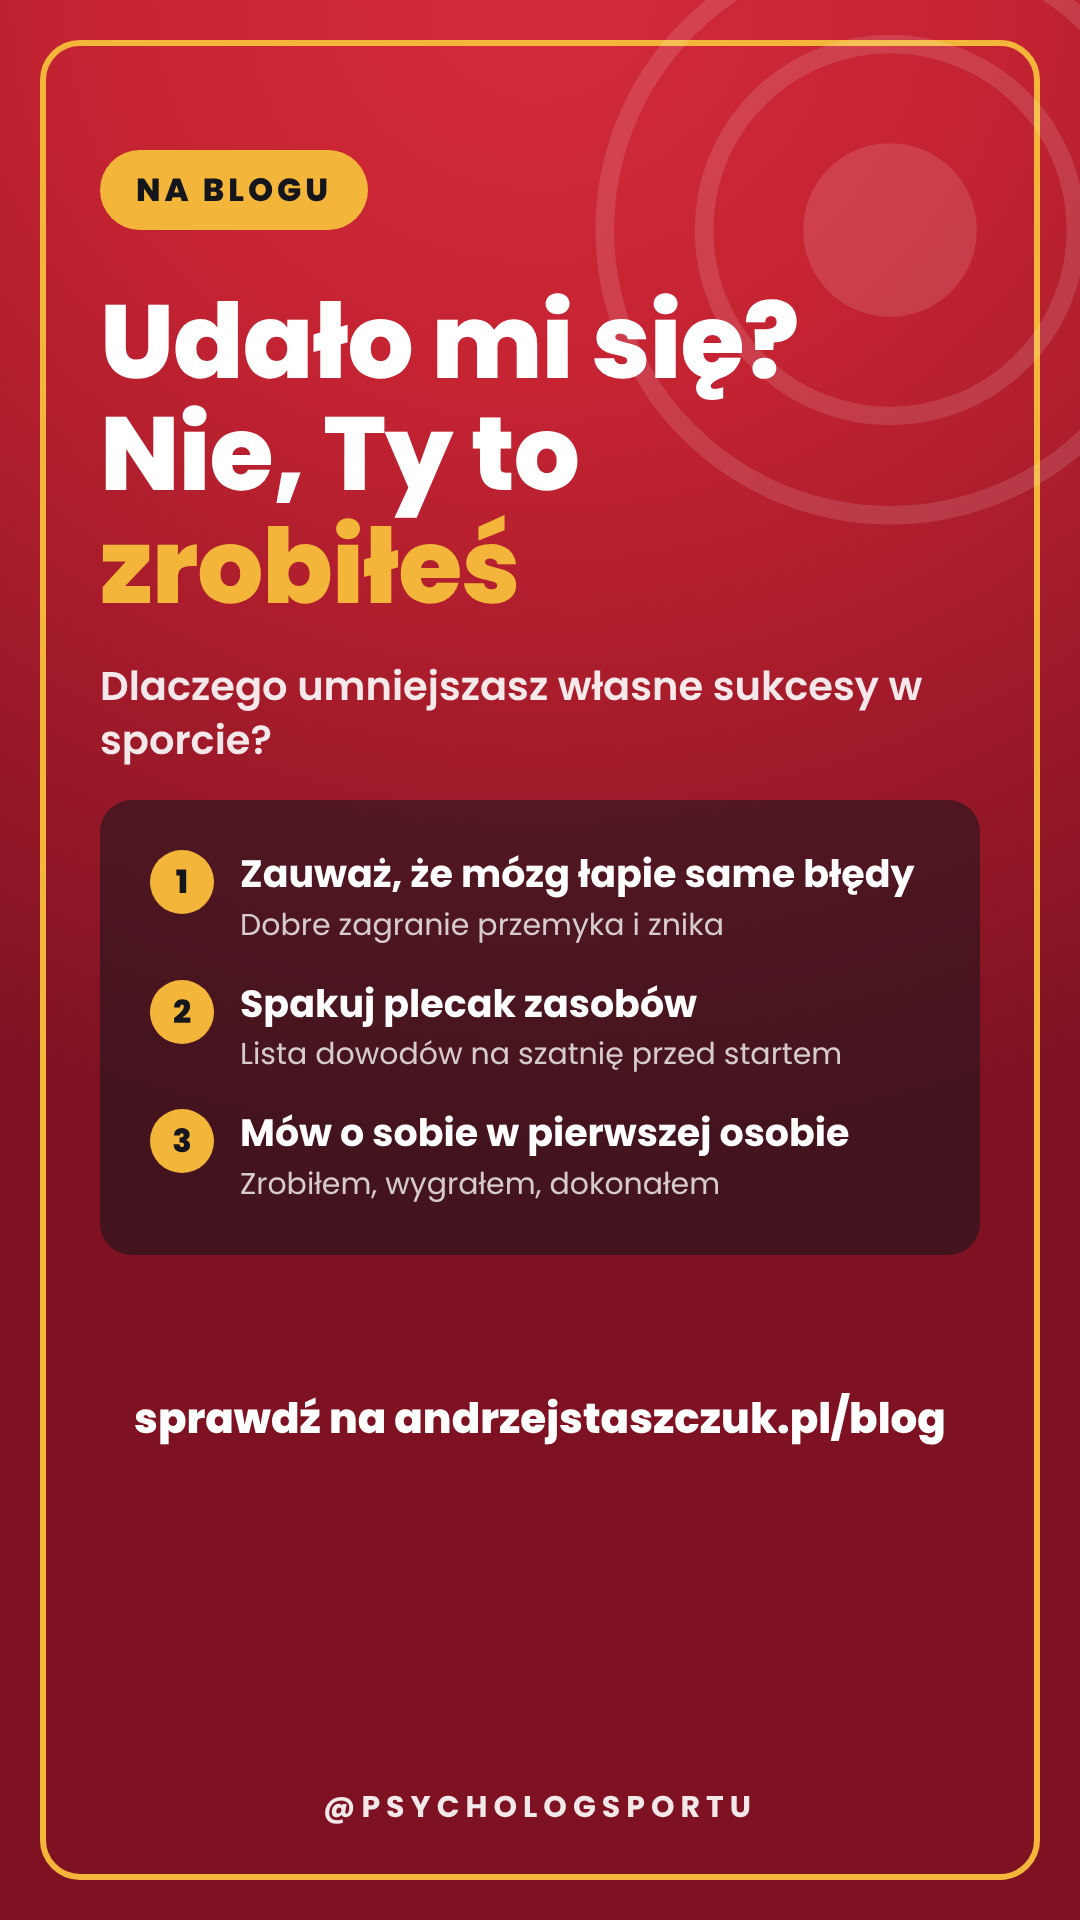
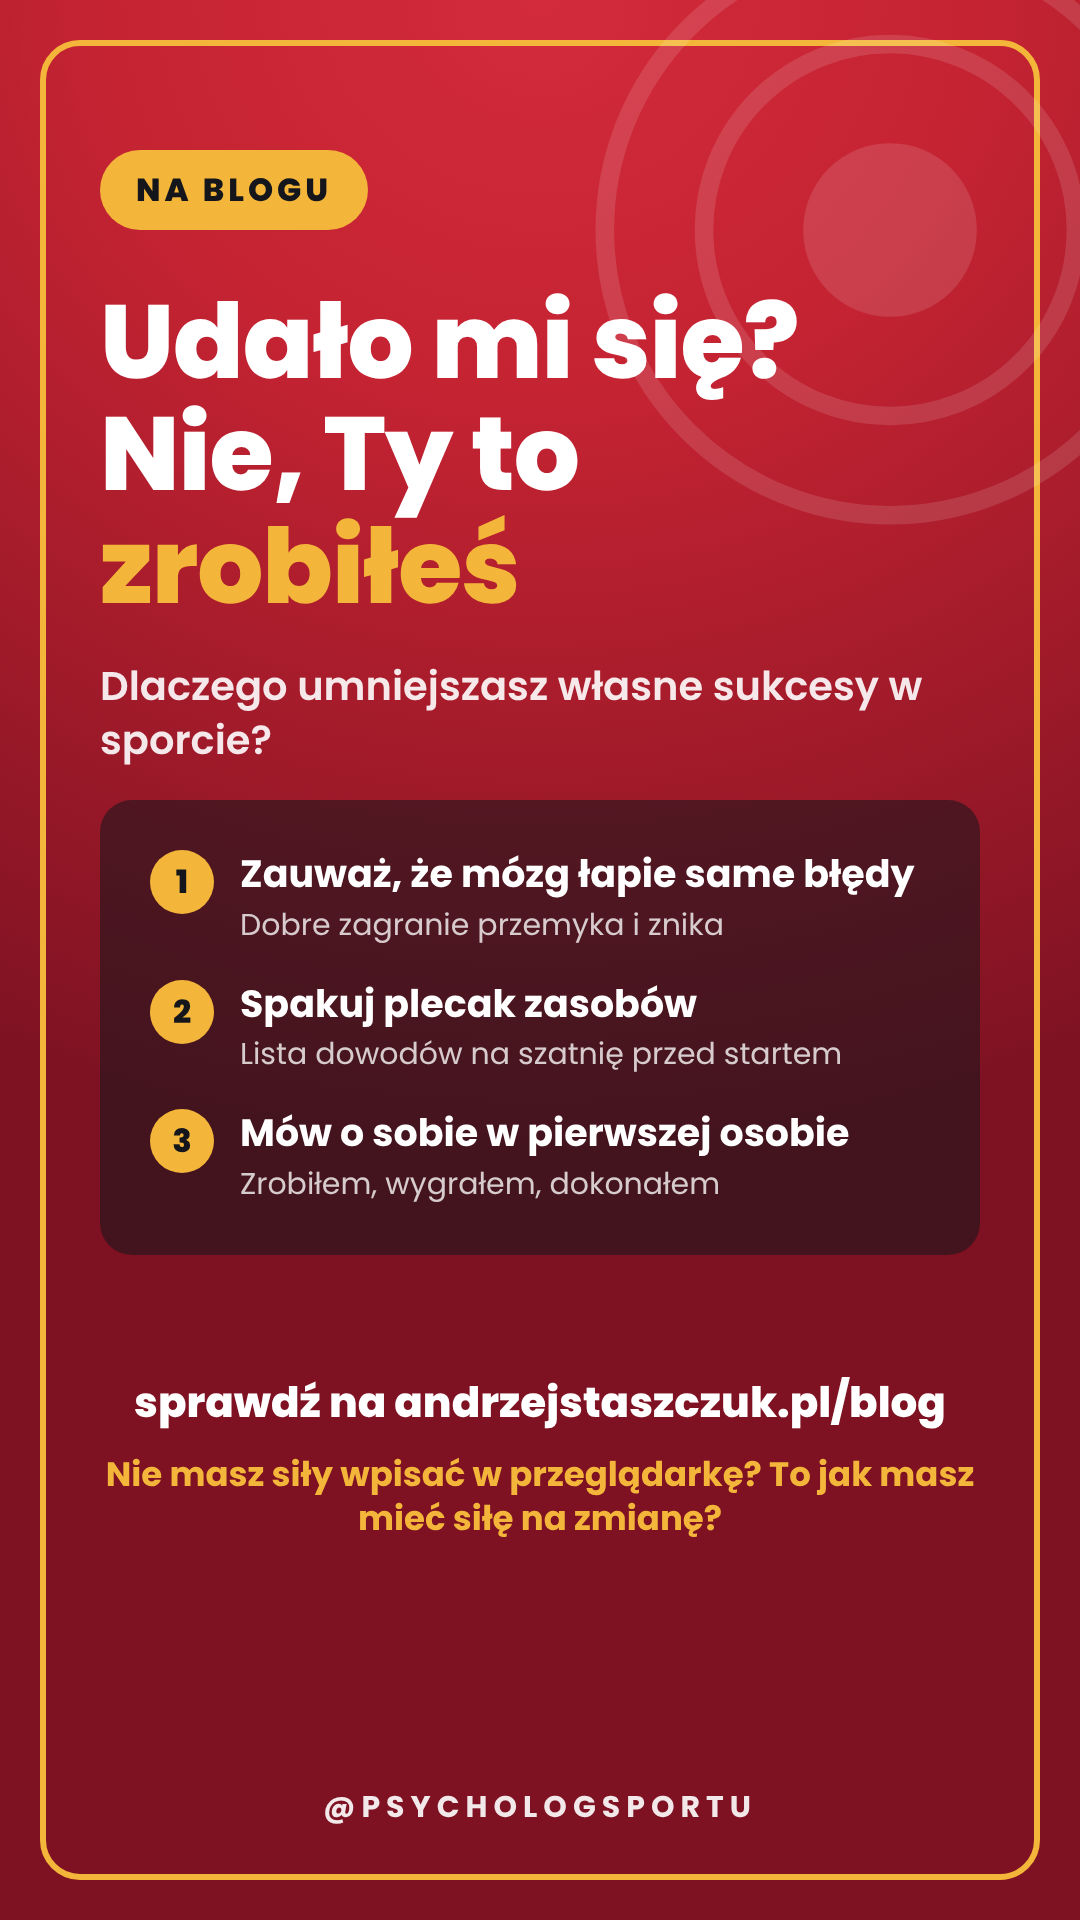
Relacje z bloga: drugi wiersz pod adresem bloga
Claude-Session: https://claude.ai/code/session_01A5PTvWpyS7iEo6fG2kmJPS

Changed region(s): [[0.0917, 0.7188, 0.9167, 0.8125]]

diff --git a/tools/relacja-wpis.js b/tools/relacja-wpis.js
@@ -1,4 +1,4 @@
-// Relacje z bloga (zasady Andrzeja 26.11.2026): bez strzałki; podtytuł jako pytanie do czytelnika; punkty jako polecenia, obrazowo; na dole cta: sprawdź na andrzejstaszczuk.pl/blog, pod nim wolne miejsce na naklejkę z linkiem (nazwa naklejki = tytuł wpisu). Pełna lista: relacje-marki/UWAGI-ANDRZEJA.md
+// Relacje z bloga (zasady Andrzeja 26.11.2026): bez strzałki; podtytuł jako pytanie do czytelnika; punkty jako polecenia, obrazowo; na dole cta: sprawdź na andrzejstaszczuk.pl/blog, pod nim wolne miejsce na naklejkę z linkiem (nazwa naklejki = tytuł wpisu). Pod adresem cta2 (Andrzej 26.11): Nie masz siły wpisać w przeglądarkę? To jak masz mieć siłę na zmianę? Pełna lista: relacje-marki/UWAGI-ANDRZEJA.md
 // Relacja IG 1080x1920 zapowiadająca wpis na blogu (@psychologsportu).
 // node relacja-wpis.js '{"kicker","t1","hl","t2","sub","items":[{"t","d"}],"cta"}' out.png
 const path = require('path');
@@ -23,7 +23,7 @@ body{width:1080px;height:1920px;overflow:hidden;font-family:Pop;color:#fff;backg
   <div style="margin-top:36px;font:600 40px/1.35 Pop;color:rgba(255,255,255,.9)">${esc(o.sub)}</div>
 </div>
 <div style="position:absolute;left:100px;right:100px;top:${o.itemsTop || 930}px;background:rgba(20,22,28,.55);border-radius:32px;padding:50px 50px">${items}</div>
-${o.cta?`<div style="position:absolute;left:100px;right:100px;bottom:${o.ctaBottom||250}px;text-align:center;font:800 42px Pop">${esc(o.cta)}</div>`:''}
+${o.cta?`<div style="position:absolute;left:100px;right:100px;bottom:${o.ctaBottom||250}px;text-align:center;font:800 42px Pop">${esc(o.cta)}${o.cta2?`<div style="margin-top:18px;font:700 34px/1.3 Pop;color:${Y}">${esc(o.cta2)}</div>`:''}</div>`:''}
 <div style="position:absolute;left:0;right:0;bottom:90px;text-align:center;font:700 30px Pop;letter-spacing:6px;opacity:.9">@PSYCHOLOGSPORTU</div>
 </body></html>`;
 render(html, process.argv[3], 1080, 1920).then(() => console.log('ok'));

diff --git a/relacje-marki/UWAGI-ANDRZEJA.md b/relacje-marki/UWAGI-ANDRZEJA.md
@@ -6,3 +6,4 @@
 - 26.11.2026 (telefon): punkty jako polecenie do działania (Zarządzaj otoczeniem), konkretniej (Każda godzina mniej w nocy).
 - 26.11.2026 (telefon): na dole napis z adresem: sprawdź na andrzejstaszczuk.pl/blog (nad miejscem na naklejkę); tytuł może kończyć się wielokropkiem.
 - 26.11.2026: te zasady obowiązują w każdej nowej relacji z bloga. Gdy tytuł ma 4 linijki, przesuń listę niżej (itemsTop 880, ctaBottom 420), żeby nic na siebie nie nachodziło.
+- 26.11.2026: pod adresem bloga zawsze drugi wiersz (cta2, żółty): Nie masz siły wpisać w przeglądarkę? To jak masz mieć siłę na zmianę? Napis na dole niżej (ctaBottom ok. 380, przy 4-linijkowym tytule 330), żeby nie nachodził na listę.
